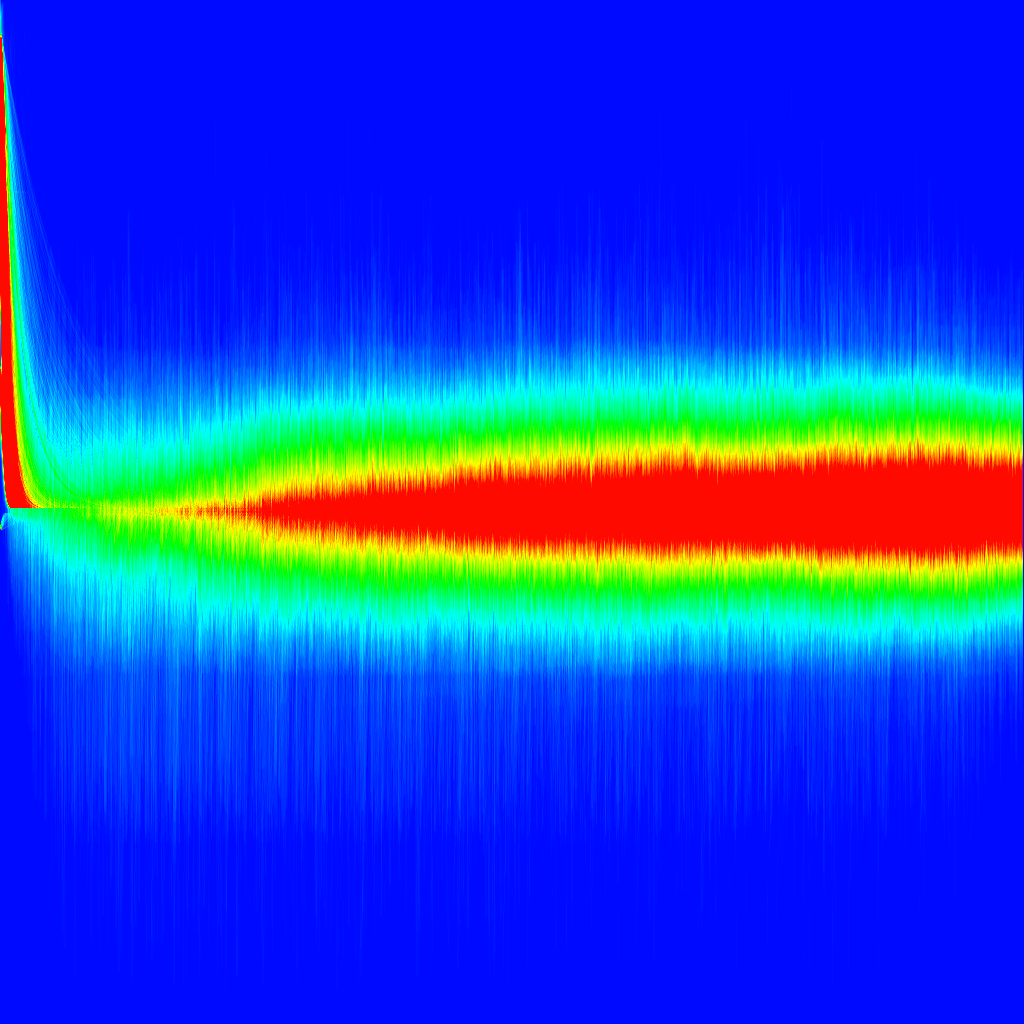
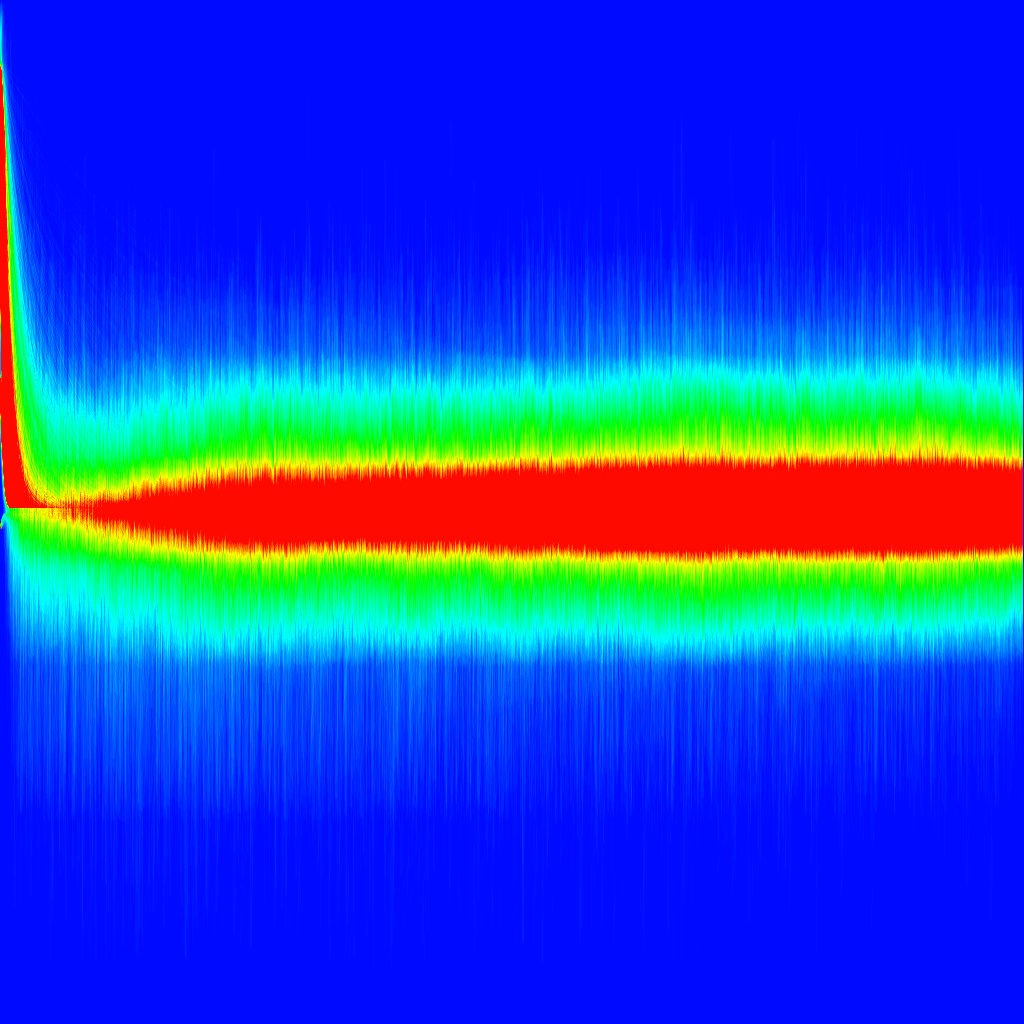
small

Changed region(s): [[0.0, 0.0312, 1.0, 0.8125]]

diff --git a/Interactive-Evolution-SFX/src/Evolution.cpp b/Interactive-Evolution-SFX/src/Evolution.cpp
@@ -65,20 +65,15 @@ int Evolution::execute(size_t max_generations, double max_quality)
 void Evolution::initialize()
 {
 	Interpreter interpreter;
-	for (int i = 0; i < util::size(examples); ++i)
+	for (int i = 0; i < util::arr_size(examples); ++i)
 		interpreter.read_str(_models.emplace_back(new SoundGene()), examples[i]);
 
-	_population.reserve(POPULATION_SIZE);
+	_population.resize(POPULATION_SIZE);
 	for (int i = 0; i < POPULATION_SIZE; ++i)
 	{
-		_population.push_back({});
-
 		_population[i].push({ 24, 14 }); // always volume on
 
-		std::vector<RESID::reg8> offsets;
-		for (RESID::reg8 i = 0; i < 24; ++i)
-			offsets.push_back(i);
-		std::shuffle(offsets.begin(), offsets.end(), util::dre);
+		std::vector<RESID::reg8> offsets = util::random<RESID::reg8>(24);
 
 		size_t commands = util::random(0, 128);
 		for (size_t j = 0, index = 0; j < commands; ++j)
@@ -87,13 +82,9 @@ void Evolution::initialize()
 				_population[i].push({ offsets[index++], util::random<RESID::reg8>(0, 100) });
 			else
 			{
-				_population[i].push({ util::random<size_t>(0, 1000) });
+				_population[i].push({ util::random<size_t>(50, 1000) });
 
-				offsets.clear();
-				for (RESID::reg8 i = 0; i < 24; ++i)
-					offsets.push_back(i);
-				std::shuffle(offsets.begin(), offsets.end(), util::dre);
-
+				offsets = util::random<RESID::reg8>(24);
 				index = 0;
 			}
 		}
@@ -114,6 +105,9 @@ void Evolution::shuffle()
 
 void Evolution::evaluate(SoundGene& candidate)
 {
+	const float time_mul = 15.0;
+	const float simi_mul = 1.0;
+
 	double time = 0.0;
 	for (size_t i = 0; i < candidate.size(); ++i)
 	{
@@ -122,13 +116,36 @@ void Evolution::evaluate(SoundGene& candidate)
 
 		if (poke != nullptr)
 		{
+			for (size_t j = 0; j < _models.size(); ++j)
+			{
+				SoundGene* gene = _models[j];
+				for (size_t k = i; k < gene->size(); ++k)
+				{
+					Poke* m_poke = dynamic_cast<Poke*>(gene->get(k));
+					Sample* m_sample = dynamic_cast<Sample*>(gene->get(k));
 
+					if (m_sample != nullptr)
+						break;
+
+					if (m_poke->offset == poke->offset)
+						candidate._fitness += (1.0 / (std::abs((int)m_poke->value - (int)poke->value) + 1)) * simi_mul;
+				}
+			}
 		}
 		else if (sample != nullptr)
-			time += util::time(sample->size);
+			time += (double)util::time(sample->size);
 	}
 
-	candidate._fitness = 1.0 / time;
+	// adjust fitness based on length of audio
+	//
+	if (time == 0.0)
+		candidate._fitness = 0.0;
+	else if (time < 0.3)
+		candidate._fitness -= (0.3 / time) * time_mul;
+	else if (time > 1.5)
+		candidate._fitness -= (time / 1.5) * time_mul;
+	else
+		candidate._fitness += time_mul;
 }
 
 void Evolution::selection()
@@ -237,7 +254,7 @@ void Evolution::mutation()
 				if (poke != nullptr)
 					_population[i].set(mp, util::random(0, 23), util::random(0, 100));
 				else if (sample != nullptr)
-					_population[i].set(mp, util::random(0, 1000));
+					_population[i].set(mp, util::random(50, 1000));
 			}
 		}
 	}

diff --git a/Interactive-Evolution-SFX/src/Heatmap.h b/Interactive-Evolution-SFX/src/Heatmap.h
@@ -98,18 +98,23 @@ namespace IESFX
 
 			//interpreter.read_file(&data, "../test.txt");
 
-			//gene.push({ 24, 15 }); // always volume on
+			gene.push({ 24, 14 }); // always volume on
 
-			//size_t commands = util::random(0, 128);
-			//for (size_t j = 0; j < commands; ++j)
-			//{
-			//	if (util::random(0.0, 1.0) > 0.1)
-			//		gene.push({
-			//			util::random<RESID::reg8>(0, 23),
-			//			util::random<RESID::reg8>(0, 100) });
-			//	else
-			//		gene.push({ util::random<size_t>(0, 1000) });
-			//}
+			std::vector<RESID::reg8> offsets = util::random<RESID::reg8>(24);
+
+			size_t commands = util::random(0, 128);
+			for (size_t j = 0, index = 0; j < commands; ++j)
+			{
+				if (util::random(0.0, 1.0) > 0.125 && index < offsets.size())
+					gene.push({ offsets[index++], util::random<RESID::reg8>(0, 100) });
+				else
+				{
+					gene.push({ util::random<size_t>(50, 1000) });
+
+					offsets = util::random<RESID::reg8>(24);
+					index = 0;
+				}
+			}
 
 			std::vector<sf::Int16> buffer = SoundData()(gene);
 

diff --git a/Interactive-Evolution-SFX/src/utilities.h b/Interactive-Evolution-SFX/src/utilities.h
@@ -28,10 +28,10 @@ namespace util
 		return ((out_max - out_min) / static_cast<double>(in_max - in_min)) * (x - in_min) + out_min;
 	}
 
-	template<class T>
-	static int size(const T& arr)
+	template<class T, size_t size>
+	static constexpr size_t arr_size(const T(&)[size])
 	{
-		return sizeof(arr) / sizeof(T);
+		return size;
 	}
 
 	static int get_cycles(size_t size)
@@ -67,6 +67,17 @@ namespace util
 	{
 		std::uniform_int_distribution<> uid(min, max);
 		return (T)uid(dre);
+	}
+
+	template<typename T, typename std::enable_if_t<std::is_integral_v<T>>* = nullptr>
+	static std::vector<T> random(T size)
+	{
+		std::vector<T> result;
+		for (T i = 0; i < size; ++i)
+			result.push_back(i);
+		std::shuffle(result.begin(), result.end(), util::dre);
+
+		return result;
 	}
 
 #if _DEBUG

diff --git a/Interactive-Evolution-SFX/src/MainForm.h b/Interactive-Evolution-SFX/src/MainForm.h
@@ -600,15 +600,18 @@ namespace IESFX
 					return;
 				}
 
-				_prev = _step = 0;
-				_color = Color::White;
-
 				std::vector<SoundGene> genes = _evolution->output(_soundUCs->Length, 0);
 
 				if (genes.size() != 0)
 				{
-					_evolution->execute();
+					_prev = _step = 0;
+					_color = Color::White;
+
+					_player->reset();
 					_player->update(genes);
+
+					for (int i = 0; i < _soundUCs->Length; ++i)
+						_soundUCs[i]->reset();
 				}
 				else
 					MessageBox::Show("No candidates could be created.", "Error", MessageBoxButtons::OK, MessageBoxIcon::Error);

diff --git a/Interactive-Evolution-SFX/src/SoundGene.h b/Interactive-Evolution-SFX/src/SoundGene.h
@@ -92,8 +92,10 @@ namespace IESFX
 		}
 		void set(int index, unsigned int offset, unsigned int value)
 		{
-			static_cast<Poke*>(_gene[index].get())->offset = offset;
-			static_cast<Poke*>(_gene[index].get())->value = value;
+			Poke* poke = static_cast<Poke*>(_gene[index].get());
+
+			poke->offset = offset;
+			poke->value = value;
 		}
 		void set(int index, size_t size)
 		{
